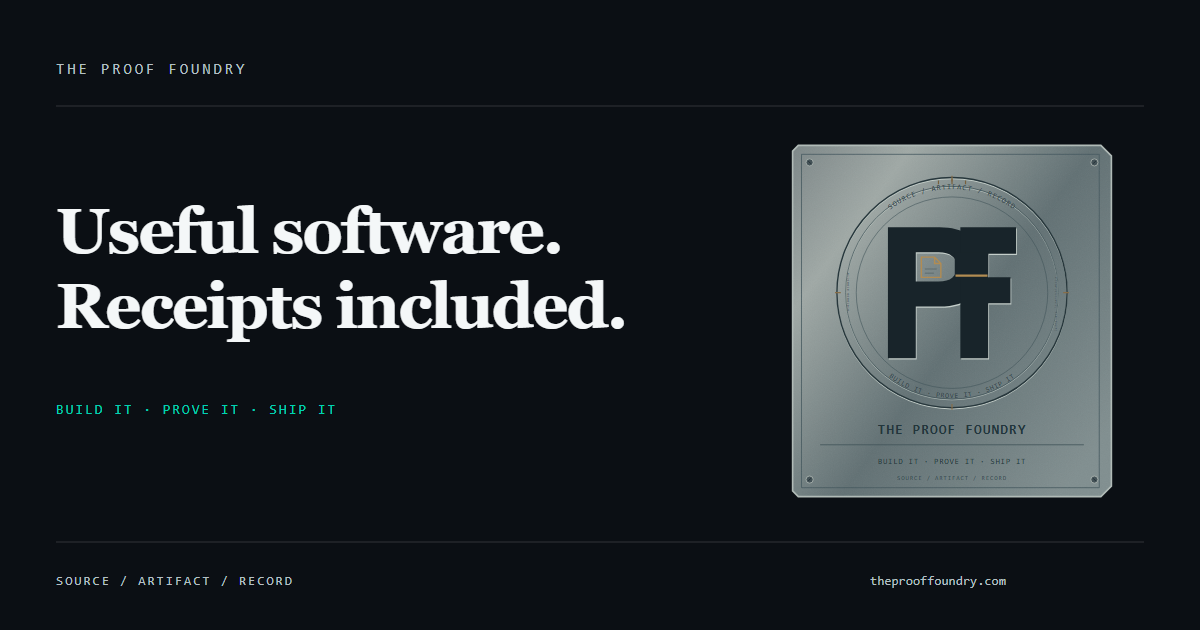
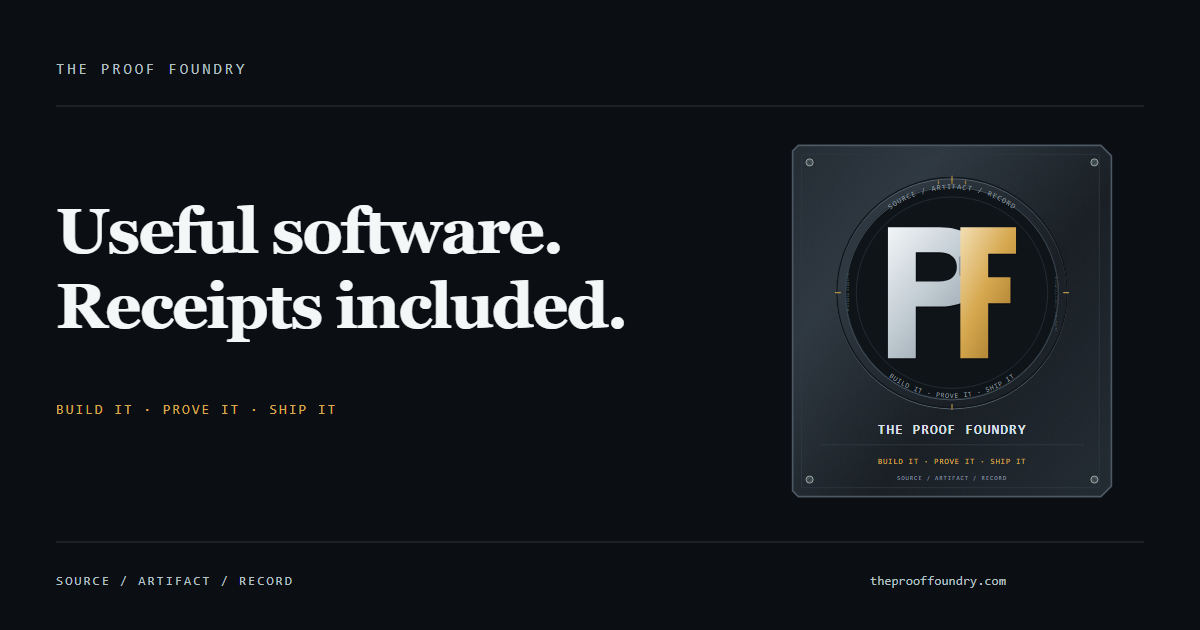
fix(brand): reconcile canonical social card and mark inspector copy

Changed region(s): [[0.6475, 0.2111, 0.925, 0.8143], [0.0308, 0.6333, 0.2775, 0.6635]]

diff --git a/pf-home.js b/pf-home.js
@@ -92,7 +92,7 @@ const NOTES = [
   { title: 'The original F', u: 186, v: 71, shape: 'F', loupe: [186, 126, 2.7],
     body: "The F keeps the second master contour and its exact relationship to the P, in brushed gold titanium nitride standing over the titanium P. Its outlines and proportions stay fixed. F is for foundry." },
   { title: 'The connecting bridge', u: 112, v: 97, shape: 'B', loupe: [150, 97, 3.0],
-    body: "The master's bridge ties the two letters together: a titanium key across the F stem, tacked to the P, with a brass record inlay along its lower edge. Proof and making, joined." },
+    body: 'A recessed, contoured titanium key joins the P to the F without interrupting the continuous gold stem. A restrained brass inlay marks the joint: proof and making, joined.' },
   { title: 'The cut edge', u: 104, v: 214, shape: 'edge', loupe: [92, 196, 3.2],
     body: 'A polished chamfer breaks every edge of the letters: bright where it faces the light at the upper left, dark where it turns away, as here along the foot of the P. The magnifier crops the same image, so every inspection point stays registered.' },
   { title: "The maker's seal", u: 46, v: 197, shape: 'seal', loupe: [52, 186, 2.4],
